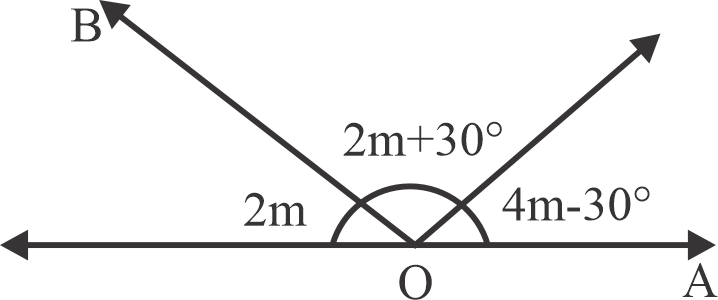
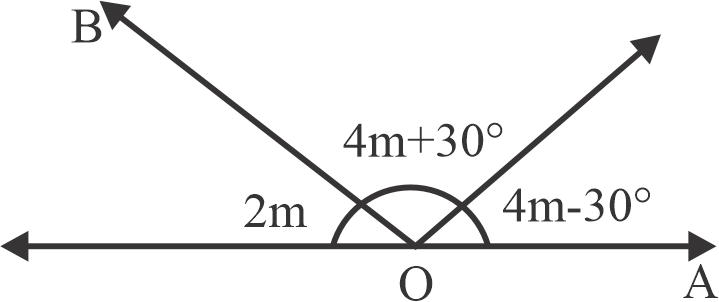
correcion 29

diff --git a/examenes/2024/cepreuna-2024-I-primera-etapa.tex b/examenes/2024/cepreuna-2024-I-primera-etapa.tex
@@ -1421,7 +1421,7 @@ $A_{\max} = 15(1)(2-1) = $\fbox{$15$}
 		\includegraphics[width=4.8cm]{imagenes/CEPRE-UNA2024-I/etapa1/ing/rm2c24-Ir.png}
 	\end{minipage}
 \end{center}
-\vspace{6mm}
+
 
 
 \item Si a un número de dos cifras le restamos veintisiete, resulta el mismo número, pero con las cifras invertidas. Determine el producto de las cifras de dicho número sabiendo que la suma es nueve.
@@ -1467,7 +1467,7 @@ $
 $\\
 donde: $x=6$, $y=3$, el número será 63,
 
-entonces el producto es: $6x3=$\fbox{$18$}
+entonces el producto es: $6 \times 3=$\fbox{$18$}
 
 
 
@@ -2176,7 +2176,6 @@ Así, la alternativa que coincide con 24 horas es \textbf{Iskay chunka tawayuq /
 	\vspace{2mm}
 	\textbf{Solucionario:}
 	
-	
 	\begin{center}
 		\begin{minipage}{0.45\textwidth}
 			Del triángulo $OTB$:
@@ -2189,7 +2188,7 @@ Así, la alternativa que coincide con 24 horas es \textbf{Iskay chunka tawayuq /
 			
 			Por ángulo inscrito:\\
 			
-			$m\widehat{TKL}=2\alpha=4\beta+90^\circ$
+			$m\wideparen{TKL}=2\alpha=4\beta+90^\circ$
 			
 			$2\alpha=4(18^\circ)+90^\circ$
 			
@@ -2197,7 +2196,7 @@ Así, la alternativa que coincide con 24 horas es \textbf{Iskay chunka tawayuq /
 			
 			\fbox{$2\alpha=162^\circ$}
 			
-			\vspace{6mm}
+			\vspace{4mm}
 		\end{minipage}
 		\hfill
 		\begin{minipage}{0.45\textwidth}
@@ -2205,7 +2204,7 @@ Así, la alternativa que coincide con 24 horas es \textbf{Iskay chunka tawayuq /
 			\includegraphics[width=4cm]{imagenes/CEPRE-UNA2024-I/etapa1/bio/geo2c24-Ir.png}
 		\end{minipage}
 	\end{center}
-	\vspace{6mm}
+
 	
 	\item La imagen muestra un croquis de un determinado lugar. Si la Av. El Sol y la Av. La Torre son paralelas, la Av. Daniel y la Av. Francisco son paralelas, calcule $2x$.
 	
@@ -2239,7 +2238,7 @@ Así, la alternativa que coincide con 24 horas es \textbf{Iskay chunka tawayuq /
 			
 			\fbox{$\therefore 2x=45^\circ$}
 			
-			\vspace{6mm}
+			\vspace{4mm}
 		\end{minipage}
 		\hfill
 		\begin{minipage}{0.45\textwidth}
@@ -2249,7 +2248,7 @@ Así, la alternativa que coincide con 24 horas es \textbf{Iskay chunka tawayuq /
 	\end{center}
 	
 	
-	\vspace{6mm}
+
 	
 \end{enumerate}
 
@@ -2278,7 +2277,6 @@ Así, la alternativa que coincide con 24 horas es \textbf{Iskay chunka tawayuq /
 	\vspace{2mm}
 	\textbf{Solucionario:}
 	
-	
 	\begin{center}
 		\begin{minipage}{0.45\textwidth}
 			$\tan\alpha=\dfrac{3}{7};\ \tan\theta=\dfrac{4}{6}=\dfrac{2}{3}$\\
@@ -2295,8 +2293,6 @@ Así, la alternativa que coincide con 24 horas es \textbf{Iskay chunka tawayuq /
 		\end{minipage}
 	\end{center}
 	
-	
-	\vspace{6mm}
 	
 	\item Un estudiante de biomédicas, en vez de escribir $40^\circ$, escribe $40^g$. ¿Qué error cometió en grados sexagesimales?
 	
@@ -2428,7 +2424,7 @@ Así, la alternativa que coincide con 24 horas es \textbf{Iskay chunka tawayuq /
 	
 	
 	
-	\vspace{6mm}
+
 	
 	\item Un cuerpo en el aire pesa $30\ N$, en el agua $25\ N$ y en un líquido desconocido $20\ N$. Halle la densidad del líquido desconocido. $(\rho_{\text{agua}}=1\ g/cm^3)$
 	
@@ -2651,7 +2647,7 @@ Así, la alternativa que coincide con 24 horas es \textbf{Iskay chunka tawayuq /
 	
 	Se analiza la estructura:
 	
-	|	$CH_3-C(C_2H_5)(CH_3)-C(C_3H_7)(CH_3)-C(CH_3)_3$
+		$CH_3-C(C_2H_5)(CH_3)-C(C_3H_7)(CH_3)-C(CH_3)_3$
 	
 	Conteo:
 	
@@ -2753,22 +2749,25 @@ Así, la alternativa que coincide con 24 horas es \textbf{Iskay chunka tawayuq /
 		\item Meiosis I
 		\item Meiosis II
 		\item Mitosis
-		\item Espermiogénesis
+		\item Espermiogenia
 	\end{enumerate}
 	\textbf{Respuesta correcta:} e)
 	
 	\vspace{2mm}
 	\textbf{Solucionario:}
 	
-	Las espermátidas se transforman en espermatozoides durante la \textbf{espermiogénesis}.  
-	La meiosis I y II forman células haploides, pero la transformación final ocurre en la espermiogénesis.
+	Durante la espermatogénesis, las espermátidas se originan tras la meiosis; sin embargo, estas aún no son células funcionales.
+	
+	La transformación de las espermátidas en espermatozoides ocurre en la etapa denominada espermiogenia, en la cual se producen cambios morfológicos y funcionales que permiten la formación de células maduras.
+	
+	Cabe señalar que espermiogenia y espermiogénesis son términos sinónimos utilizados en biología.
 	
 	\vspace{6mm}
 	\item Un médico explica a una madre gestante de su estado de embarazo donde le dice que está en una etapa de gemelos, para lo cual le explica que sus dos gemelos serán del mismo género, genéticamente idénticos y muy similares en su aspecto físico. Según el enunciado, ¿a qué tipo de gemelos se refiere el médico?
 	\begin{enumerate}[label=\alph*)]
 		\item Fraternos
 		\item Multicigóticos
-		\item Digigóticos
+		\item Dicigóticos
 		\item Monocigóticos
 		\item Heterocigóticos
 	\end{enumerate}
@@ -2823,7 +2822,7 @@ Así, la alternativa que coincide con 24 horas es \textbf{Iskay chunka tawayuq /
 	
 	\vspace{6mm}
 	
-	\item Juan Carlos se siente muy contento porque ingresó a la universidad; por ello se siente triste por sus amigos que no ingresaron. Esto refleja claramente la característica de la afectividad denominada:
+	\item Juan Carlos se siente muy contento porque ingresó a la universidad; por otro lado se siente triste por sus amigos que no ingresaron. Esto refleja claramente la característica de la afectividad denominada:
 	\begin{enumerate}[label=\alph*)]
 		\item amplitud.
 		\item intensidad.
@@ -3041,9 +3040,10 @@ Así, la alternativa que coincide con 24 horas es \textbf{Iskay chunka tawayuq /
 	\textbf{Solucionario:}
 	
 	La clasificación general de los tributos en el Perú es:
+	
 	$ \text{impuestos}, \text{contribuciones} \text{ y } \text{tasas} $
 	
-	\vspace{6mm}
+	\vspace{5mm}
 	
 \end{enumerate}
 
@@ -3072,7 +3072,7 @@ Así, la alternativa que coincide con 24 horas es \textbf{Iskay chunka tawayuq /
 	
 	\vspace{6mm}
 	
-	\item Un alumno comenta a su maestra sobre las dificultades que llegaron a la ciudad a raíz de la inundación en algunas calles. El alumno, en este comentario, generó un texto narrativo de tipo:
+	\item Un alumno comenta a su maestra sobre las dificultades que tuvo para llegar a la universidad a raíz de la inundación en algunas calles de la ciudad. El alumno, en este comentario, generó un texto narrativo de tipo:
 	\begin{enumerate}[label=\alph*)]
 		\item fáctico.
 		\item cotidiano.
@@ -3121,7 +3121,9 @@ Así, la alternativa que coincide con 24 horas es \textbf{Iskay chunka tawayuq /
 	\textbf{Solucionario:}
 	
 	La coma elíptica sustituye un verbo omitido. En:
+	
 	$ \text{Mario estudia en San Ignacio de Loyola; Luis, en César Vallejo} $
+	
 	se omite el verbo $ \text{estudia} $ en la segunda parte.
 	
 	\vspace{6mm}
@@ -3670,7 +3672,7 @@ Así, la alternativa que coincide con 24 horas es \textbf{Iskay chunka tawayuq /
 \begin{enumerate}[resume]
 
 	
-	\item ¿Hayk'a chakiyuqtaq wakakuna/kanku? / Qawqha kayunisa wakaxa?
+	\item ¿Hayk'a chakiyuqtaq wakakunari/kanku? / Qawqha kayunisa wakaxa?
 	\begin{enumerate}[label=\alph*)]
 		\item Iskay chakiyuq / Pä kayu
 		\item Kimsa chakiyuq / Kimsa kayu
@@ -3699,7 +3701,7 @@ Así, la alternativa que coincide con 24 horas es \textbf{Iskay chunka tawayuq /
 		\item Aquta / Ch'alla
 		\item Q'achuta / Chuxlla
 		\item Yakuta / Uma
-		\item Alpata / Laq'a
+		\item Allpata / Laq'a
 	\end{enumerate}
 	\textbf{Respuesta correcta:} c)
 	

diff --git a/examenes/2024/cepreuna-2024-I-segunda-etapa.tex b/examenes/2024/cepreuna-2024-I-segunda-etapa.tex
@@ -434,13 +434,13 @@
 			
 		En la figura obtenemos que:
 		
-		$\triangle MBC\cong\triangle MNC$ $(L.A.L)$
+		$\triangle MQC\cong\triangle MNC$ $(L.A.L)$
 		
 		
-		$m\angle CMN=m\angle CMB=x$
+		$m\angle CMN=m\angle CMQ=x$
 		
 		
-		$m\angle MNA=m\angle MAB=\theta$
+		$m\angle MNA=m\angle MQB=\theta$
 		
 		$m\angle BPM=m\angle MNA=\theta$
 		
@@ -466,7 +466,7 @@
 	
 	\vspace{6mm}
 	
-	\item Se tiene dos conos de revolución en donde sus bases se encuentran en una mesa, y de altura $8\ m$ y $4\ m$ respectivamente. Un plano paralelo a la mesa intercepta a los dos conos a la misma altura, generando secciones equivalentes. Calcule el área de dicha sección en $m^2$.
+	\item Se tiene dos conos de revolución en donde sus bases se encuentran en una mesa y tienen como radios 6 m y 12 m, y de altura $8\ m$ y $4\ m$ respectivamente. Un plano paralelo a la mesa intercepta a los  conos en 2 secciones equivalentes. Calcule el área de dicha sección en $m^2$.
 	
 	\begin{enumerate}[label=\alph*)]
 		\item $12\pi\ m^2$
@@ -480,19 +480,16 @@
 	\vspace{2mm}
 	\textbf{Solucionario:}
 	
-	Pide: $S'=$ área del círculo análogo.
+	Pide: $S=$ área del círculo análogo.
 	
 	$i)$ Semejanza de triángulos en el cono 1:
 	
 	$\dfrac{r}{6}=\dfrac{8-a}{8}$
 	
-	$8r=48-6a$ \quad $\cdots (1)$
+	$8r=48-6a$
 	
-	$8r=24+4r$
 	
-	$4r=24-6a$
-	
-	$3a=12-r$ \quad $\cdots (2)$
+	$3a=24-4r$  \quad $\cdots (1)$
 	
 	$ii)$ Semejanza de triángulos en el cono 2:
 	
@@ -500,9 +497,9 @@
 	
 	$4r=48-12a$
 	
-	$3a=12-r$ \quad $\cdots (3)$
+	$3a=12-r$ \quad $\cdots (2)$
 	
-	De $(1)$ y $(2)$:
+	 $(1)$ en $(2)$:
 	
 	$12-r=24-4r$
 	
@@ -512,9 +509,9 @@
 	
 	Por lo tanto,
 	
-	$S'=\pi r^2=\pi(4)^2$
+	$S=\pi r^2=\pi(4)^2$
 	
-	\fbox{$S'=16\pi\ m^2$}
+	\fbox{$S=16\pi\ m^2$}
 	
 	\vspace{6mm}
 	
@@ -548,10 +545,10 @@
 		\begin{center}
 		\begin{minipage}{0.45\textwidth}
 			
-		$18^\circ 30'=\left(\dfrac{\sqrt{37}}{2}\right)^\circ$\\
+		$18^\circ 30'=\left(\dfrac{37}{2}\right)^\circ$\\
 		
 		
-		$26^\circ 30'=\left(\dfrac{52}{2}\right)^\circ$\\
+		$26^\circ 30'=\left(\dfrac{53}{2}\right)^\circ$\\
 
 		$3x=2x+10$
 		
@@ -764,7 +761,7 @@
 	
 	$W_1d_1=W_2d_2$
 	
-	$k\,2L\cdot \sqrt{3}L\sen\theta=k\sqrt{3}L\cdot \dfrac{\sqrt{3}}{2}L\cos\theta$
+	$k\,2L\cdot L\sen\theta=k\sqrt{3}L\cdot \dfrac{\sqrt{3}}{2}L\cos\theta$
 	
 	$\sen\theta=\dfrac{\sqrt{3}\sqrt{3}}{2(2)}\cos\theta$
 	
@@ -891,15 +888,15 @@
 	
 	\item ¿Cuál de los iones está mal nombrado?
 	
-	I. $\mathrm{ClO_4^-}$ Perclorato
+	I. $\mathrm{ClO_4^1-}$ Perclorato
 	
-	II. $\mathrm{PO_3^{3-}}$ Fosfato
+	II. $\mathrm{PO_3^{1-}}$ Fosfato
 	
 	III. $\mathrm{CO_2^{2-}}$ Carbonato
 	
-	IV. $\mathrm{Cl^-}$ Cloruro
+	IV. $\mathrm{Cl^1-}$ Cloruro
 	
-	V. $\mathrm{HSO_4^-}$ Bisulfato
+	V. $\mathrm{HSO_4^1-}$ Bisulfato
 	
 	\begin{enumerate}[label=\alph*)]
 		\item I y IV
@@ -908,7 +905,7 @@
 		\item IV y II
 		\item Solo V
 	\end{enumerate}
-	\textbf{Respuesta correcta:} b)
+	\textbf{Respuesta correcta:} c)
 	
 	\vspace{2mm}
 	\textbf{Solucionario:}
@@ -1061,7 +1058,7 @@
 	
 	\vspace{6mm}
 	
-	\item Es el pensamiento multidireccional que se aplica en la solución del problema en muchas direcciones posibles. Se relaciona con la creatividad.
+	\item Es el pensamiento multidireccional que se mueve hacia la solución del problema en muchas direcciones posibles. Se relaciona con la creatividad.
 	\begin{enumerate}[label=\alph*)]
 		\item Lógico
 		\item No lógico
@@ -1160,7 +1157,7 @@
 
 \begin{enumerate}[resume]
 	
-	\item El Ministerio de Desarrollo e Inclusión Social, encargado de mejorar la calidad de vida de los peruanos en extrema pobreza y fomentar la equidad, proteger a poblaciones vulnerables y en estado de abandono, fue creado durante el gobierno de:
+	\item El Ministerio de Desarrollo e Inclusión Social, encargado de mejorar la calidad de vida de los peruanos en extrema pobreza y fomentar la equidad,sumado a ello proteger a poblaciones vulnerables y en estado de abandono, fue creado durante el gobierno de:
 	\begin{enumerate}[label=\alph*)]
 		\item Valentín Paniagua Corazao.
 		\item Alberto Fujimori Fujimori.

diff --git a/main.tex b/main.tex
@@ -12,6 +12,7 @@
 \usepackage{amsmath, amssymb}
 \usepackage{mathrsfs}
 \usepackage{chemfig}
+\usepackage{yhmath}
 % =====================================
 % Listas, colores, gráficos y diagramas
 % =====================================